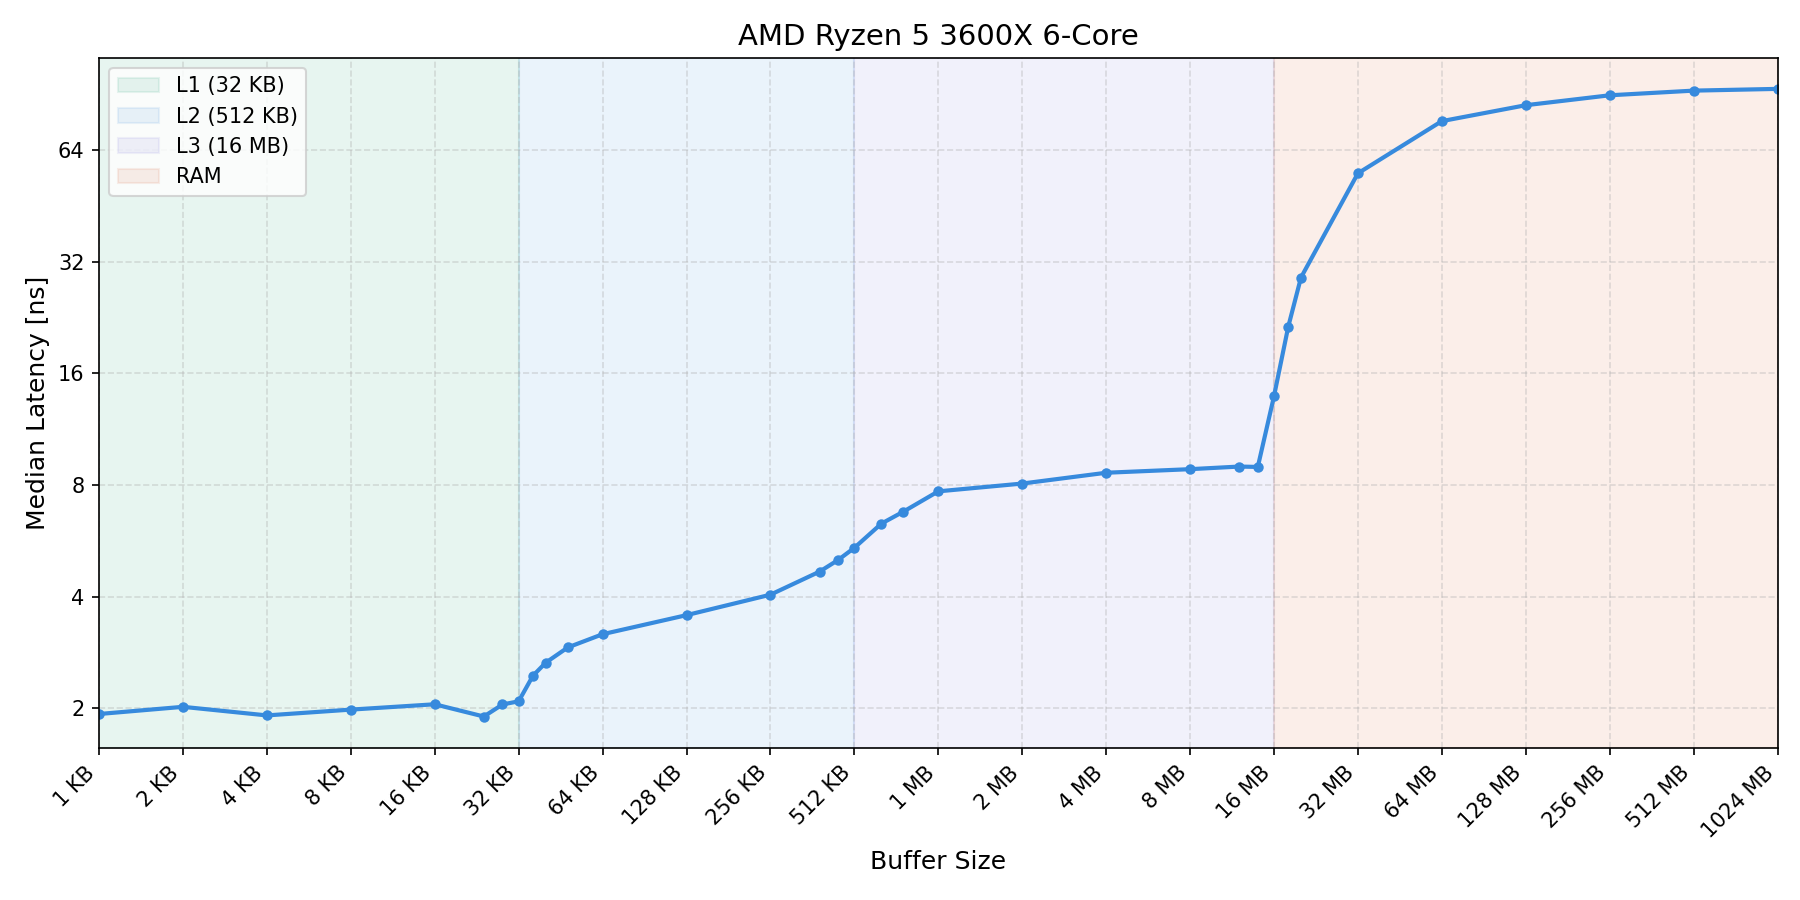
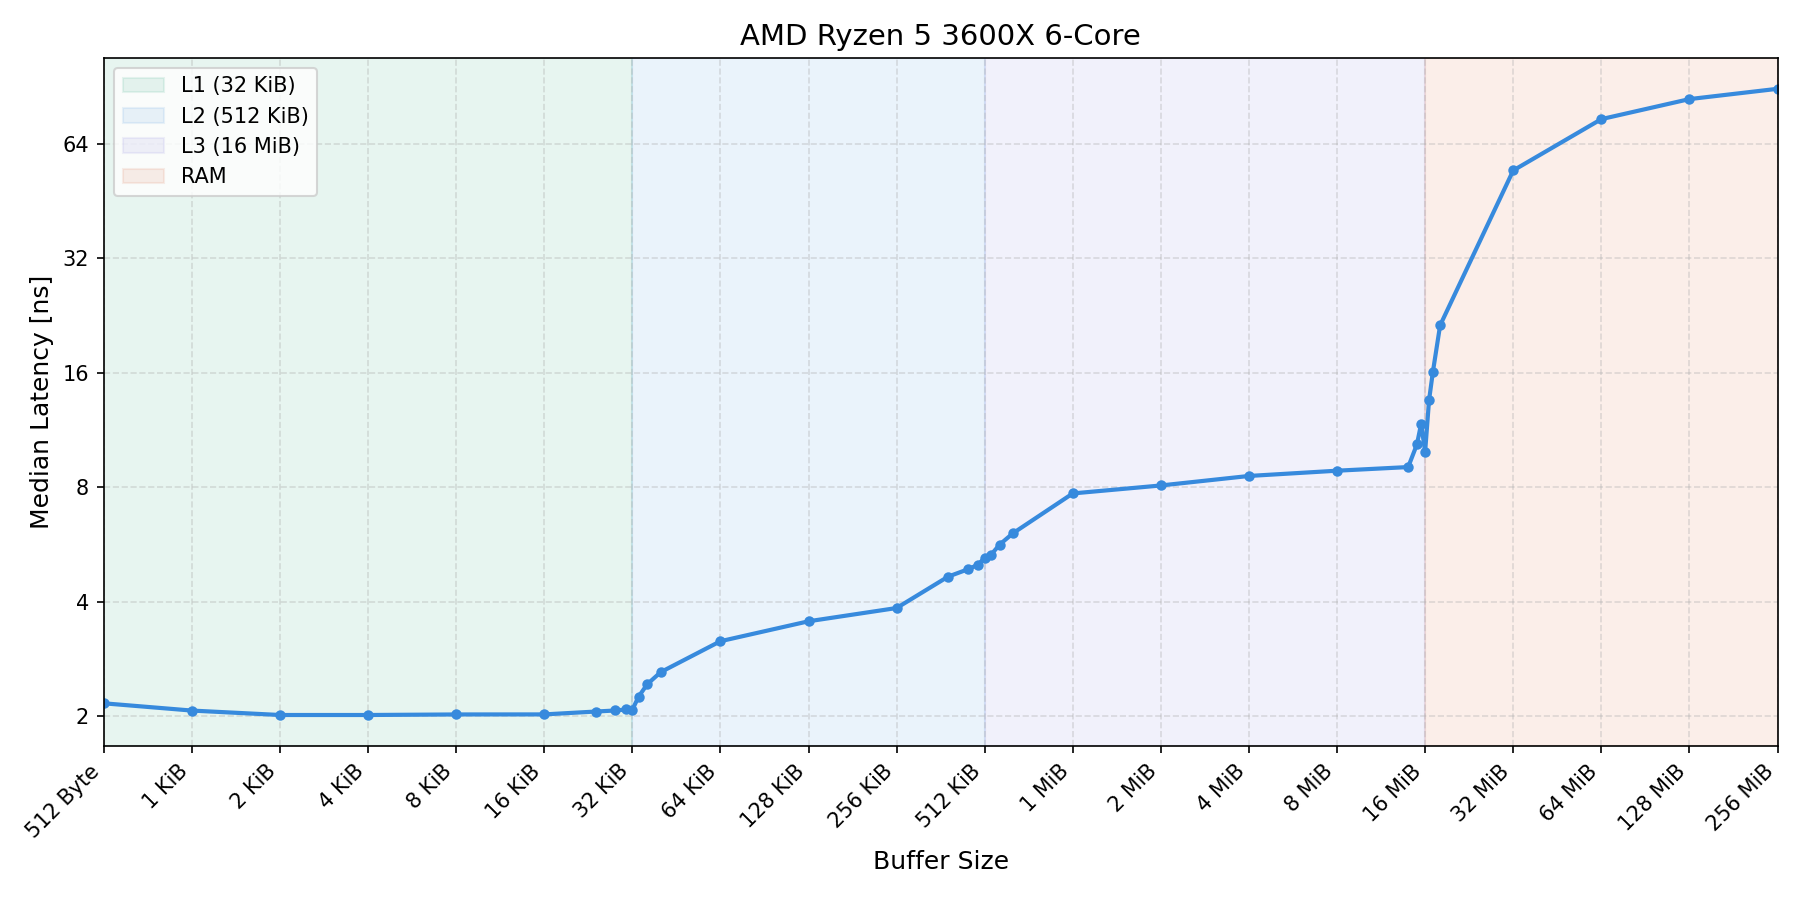
sheet06

diff --git a/solutions/exercise6/taskB/plot.py b/solutions/exercise6/taskB/plot.py
@@ -11,7 +11,7 @@ lcc_3regions = [
     (12288*1024,      float("inf"), "#D85A30", "RAM"),
 ]
 
-LCC3 = True
+LCC3 = False
 
 TITLE_LCC3 = "LCC3 - Intel(R) Xeon(R) X5650"
 
@@ -23,10 +23,10 @@ def plot(input_file, output_file):
     ax.plot(df["size_kb"], df["latency_ns"], marker="o", linewidth=2, markersize=4, color="#378ADD")
 
     regions = [
-    (0,      32,    "#1D9E75", "L1 (32 KB)"),
-    (32,     512,   "#378ADD", "L2 (512 KB)"),
-    (512,    16384, "#7F77DD", "L3 (16 MB)"),
-    (16384,  float("inf"), "#D85A30", "RAM"),
+        (0,               2**15,       "#1D9E75", "L1 (32 KiB)"),   # 32 * 1024
+        (2**15,           2**19,       "#378ADD", "L2 (512 KiB)"),  # 512 * 1024
+        (2**19,           2**24,       "#7F77DD", "L3 (16 MiB)"),   # 16384 * 1024
+        (2**24,           float("inf"), "#D85A30", "RAM"),
     ]
     title = "AMD Ryzen 5 3600X 6-Core"
     if LCC3: 

diff --git a/solutions/exercise6/taskB/cache_latency.py b/solutions/exercise6/taskB/cache_latency.py
@@ -7,7 +7,7 @@ OUTPUT_FILE = "out.csv"
 
 REPS = 10
 
-LCC3 = True
+LCC3 = False
 
 lcc3_sizes = sizes = sorted(set([
         *[2**i for i in range(9, 29)],
@@ -18,10 +18,10 @@ lcc3_sizes = sizes = sorted(set([
 
 def main():
     sizes = sorted(set([
-        *[2**i for i in range(-2,21)],
-        24, 28, 36, 40, 48,       
-        384, 448, 640, 768,      
-        12288, 14336, 18432, 20480 
+        *[2**i for i in range(9,29)],
+        24576, 28672, 31130, 32768, 34406, 36864, 40960,
+        393216, 458752, 498073, 524288, 550502, 589824, 655360,
+        14680064, 15728640, 16252928, 16777216, 17301504, 17825792, 18874368
     ]))
 
     if LCC3: sizes = lcc3_sizes
